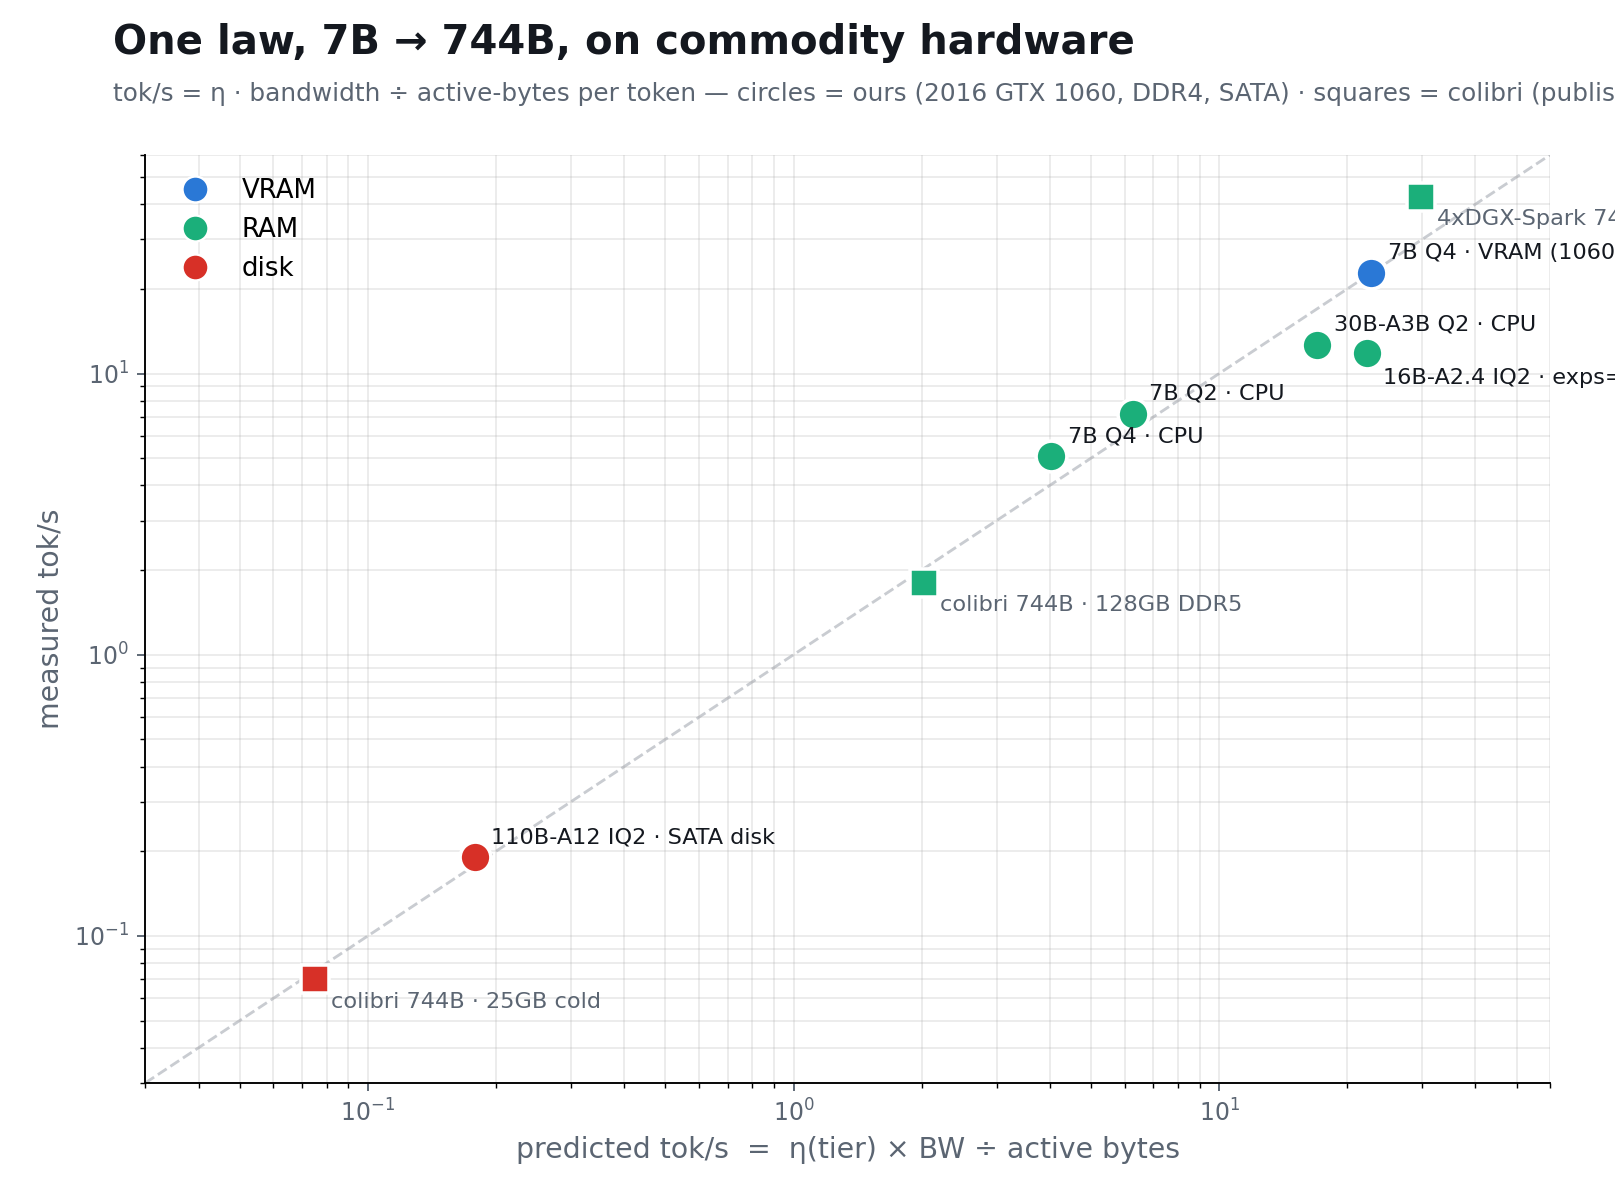
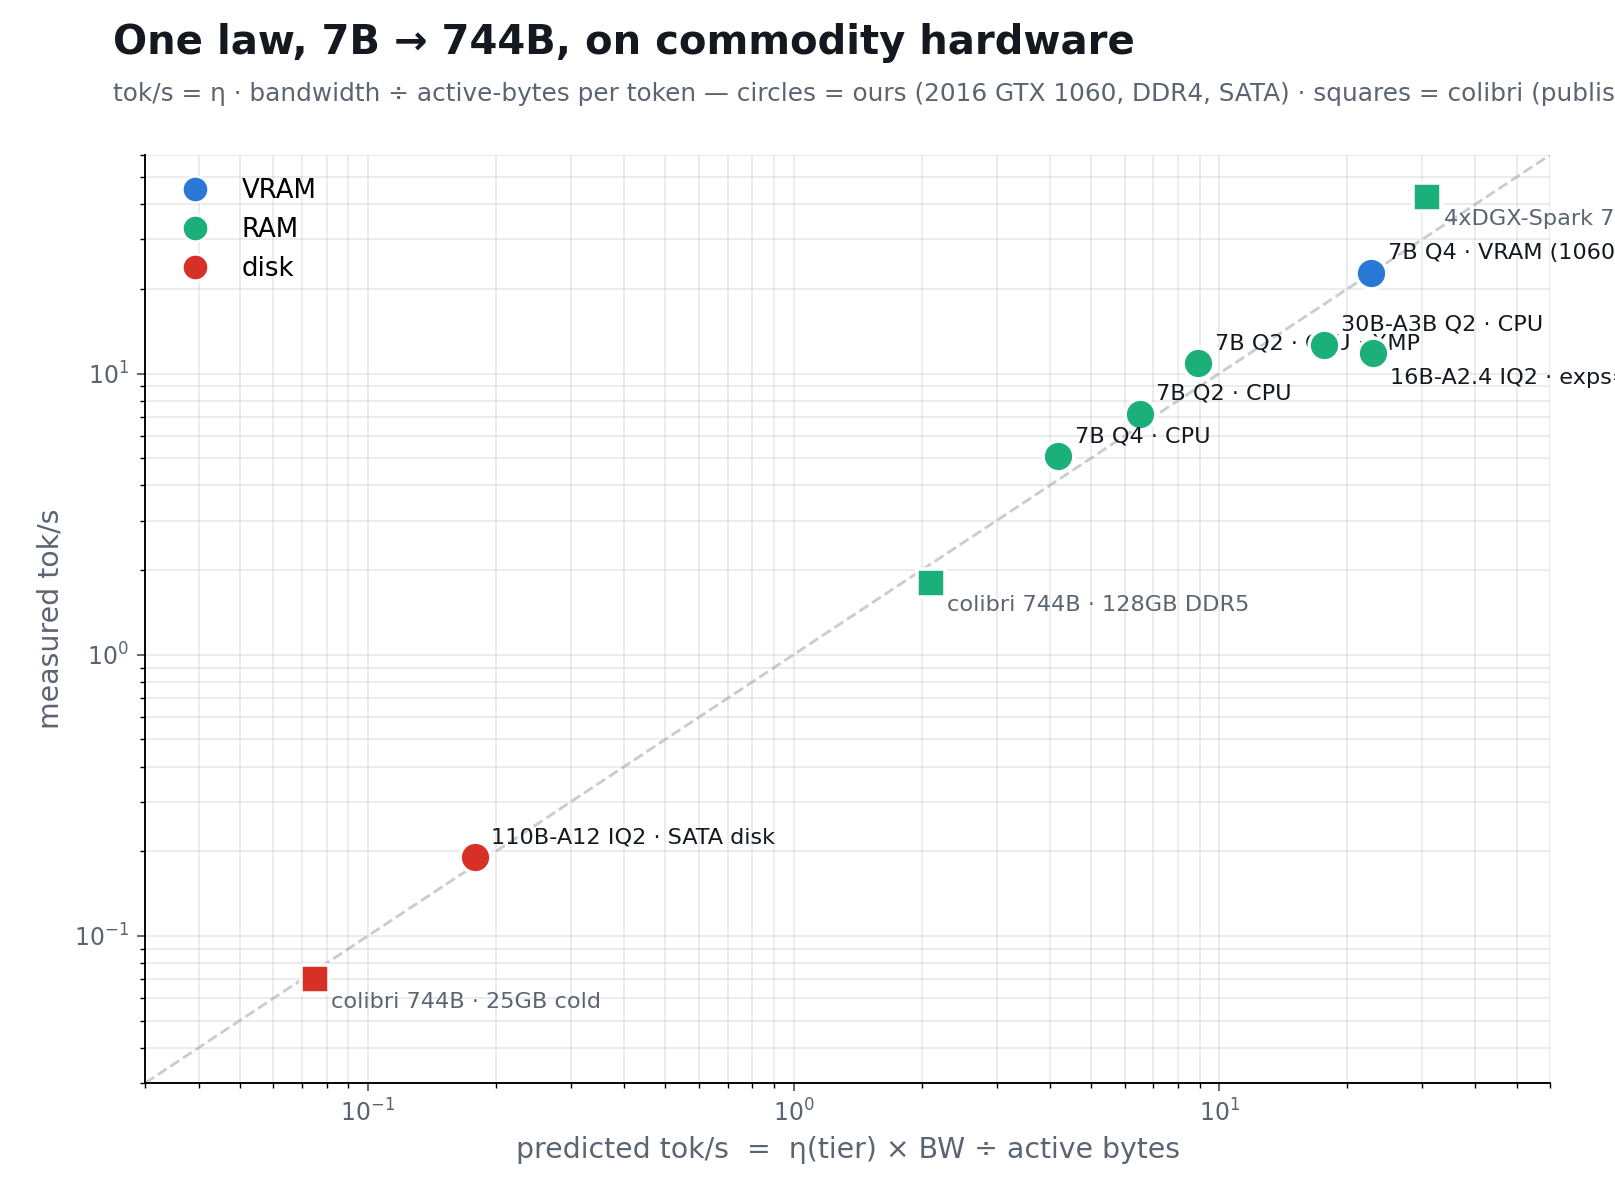
Charts: byte-identical experiment in parity section, 744B cost-vs-speed projection chart, XMP point on the law

diff --git a/weights/make_744b_chart.py b/weights/make_744b_chart.py
@@ -1,0 +1,61 @@
+"""Chart G: running the 744B at home — cost vs speed, measured vs predicted, and what placement buys free."""
+import os
+import matplotlib
+matplotlib.use("Agg")
+import matplotlib.pyplot as plt
+
+INK, SUB, LGREY, TEAL, RED = "#14181f", "#5b6572", "#c9ccd1", "#1d9e70", "#d73027"
+DATA = os.path.join(os.path.dirname(os.path.abspath(__file__)), "data")
+plt.rcParams.update({"font.family": "DejaVu Sans"})
+
+# (cost $, tok/s, label, measured?, dx, dy)
+PTS = [
+    (60,    0.07, "my 2016 desktop\n(2-bit, SATA stream)", False, 0, 14),
+    (240,   0.5,  "+ NVMe", False, 0, 14),
+    (1500,  1.8,  "128 GB DDR5\ncolibri int4 (measured)", True, -10, -34),
+    (1500,  3.5,  "same box\n+ my 2-bit recipe", False, 12, 4),
+    (2500,  9.0,  "used 200 GB/s\nworkstation", False, -8, 12),
+    (6000,  28,   "2× ASUS GX10\n(744B fits: 2-bit only)", False, -14, 12),
+    (10000, 45,   "Mac Studio 512 GB", False, -34, 12),
+    (16000, 42.5, "4× DGX Spark\nW4 (measured)", True, 10, -30),
+    (16000, 61,   "4× Spark\n+ my recipe", False, 12, 4),
+]
+fig, ax = plt.subplots(figsize=(12, 6.75), dpi=170)
+fig.patch.set_facecolor("white"); ax.set_facecolor("white")
+ax.set_xscale("log"); ax.set_yscale("log")
+ax.set_xlim(40, 60000); ax.set_ylim(0.04, 150)
+
+# the placement dividend: vertical arrows at fixed cost
+for x, y0, y1 in [(1500, 1.8, 3.5), (16000, 42.5, 61)]:
+    ax.annotate("", xy=(x, y1 * 0.82), xytext=(x, y0 * 1.2),
+                arrowprops=dict(arrowstyle="-|>", color=TEAL, lw=2.2))
+ax.text(1500 * 1.25, 2.45, "same hardware,\nplacement only", fontsize=9.5, color=TEAL, style="italic")
+ax.text(16000 * 1.25, 50, "×1.4–1.6 free", fontsize=9.5, color=TEAL, style="italic")
+
+for c, t, lab, meas, dx, dy in PTS:
+    if meas:
+        ax.scatter([c], [t], s=200, color=INK, marker="s", zorder=3, edgecolor="white", lw=1.5)
+    else:
+        ax.scatter([c], [t], s=180, facecolor="white", edgecolor=TEAL, lw=2.4, zorder=3)
+    ax.annotate(lab, (c, t), textcoords="offset points", xytext=(dx, dy), fontsize=9,
+                color=INK if meas else "#0f6e56", ha="center",
+                fontweight="bold" if meas else "normal")
+
+ax.set_xlabel("hardware cost (USD, log) — beyond a PC you already own", fontsize=12, color=SUB)
+ax.set_ylabel("GLM-5.2 744B decode tok/s (log)", fontsize=12, color=SUB)
+for s in ("top", "right"):
+    ax.spines[s].set_visible(False)
+ax.tick_params(colors=SUB); ax.grid(alpha=0.22, which="both")
+ax.scatter([], [], s=140, color=INK, marker="s", label="measured (theirs)")
+ax.scatter([], [], s=120, facecolor="white", edgecolor=TEAL, lw=2, label="predicted by the law (pre-registered)")
+ax.legend(frameon=False, fontsize=10.5, loc="upper left")
+fig.text(0.055, 0.955, "Running a 744B at home: what money buys — and what placement buys free",
+         fontsize=18.5, fontweight="bold", color=INK)
+fig.text(0.055, 0.905, "Hollow points: falsifiable predictions, published first. Green arrows: the probed-2-bit recipe on the same hardware.",
+         fontsize=11.5, color=SUB)
+fig.text(0.055, 0.03, "tok/s = η(tier) × bandwidth ÷ active-bytes · error ±25–40% at this range · quality: probe the fragile band first",
+         fontsize=10, color=SUB)
+fig.text(0.945, 0.03, "@federico_sciuca", fontsize=11, color=LGREY, ha="right", fontweight="bold")
+fig.subplots_adjust(left=0.07, right=0.965, top=0.86, bottom=0.15)
+fig.savefig(os.path.join(DATA, "x_chart_G_744b.png"), facecolor="white")
+print("saved x_chart_G_744b.png")

diff --git a/weights/scaling_law.py b/weights/scaling_law.py
@@ -16,6 +16,7 @@ BLUE, TEAL, RED, AMBER = "#2a78d6", "#1baf7a", "#d73027", "#eda100"
 PTS = [
     ("7B Q4 · VRAM (1060)",        "VRAM", 192,  4.68,  22.77, True),
     ("7B Q2 · CPU",                "RAM",  35,   3.01,  7.18,  True),
+    ("7B Q2 · CPU · XMP",      "RAM",  48,   3.01,  10.88, True),
     ("7B Q4 · CPU",                "RAM",  35,   4.68,  5.08,  True),
     ("30B-A3B Q2 · CPU",           "RAM",  35,   1.11,  12.62, True),
     ("16B-A2.4 IQ2 · exps=CPU",    "RAM",  35,   0.85,  11.81, True),

diff --git a/README.md b/README.md
@@ -53,6 +53,8 @@ Full statements, each with its establishing measurement and a falsifiable predic
 <p align="center"><img src="weights/data/x_chart_E_scalinglaw.png" width="700" alt="One scaling law, 7B to 744B, predicted vs measured, including colibri's published tiers"></p>
 <p align="center"><img src="weights/data/x_chart_F_tradeoff.png" width="700" alt="Speed vs memory trade-off with the RAM capacity cliff — fewer bits mean less memory and more speed until the model stops fitting"></p>
 
+<p align="center"><img src="weights/data/x_chart_D_placement.png" width="700" alt="Byte-identical GGUF files, 2.25 perplexity apart — placement is worth twice the byte budget"></p>
+
 ## The machine — and every speed it ran at
 
 All of this happened on one desktop I already owned. Exact specs, because reproducibility starts with honesty about hardware:
@@ -168,6 +170,8 @@ The question colibri made everyone ask: *what would GLM-5.2 (744B-A32B) cost to 
 | 4× DGX Spark + **this work's recipe** (probed 2-bit experts, 4-bit attention) | active bytes 20.7 → 12.9 GB/token (×1.6) | **~55–67 predicted** — or the same 42.5-class speed on **2 Sparks (~half the cost)**, or several-fold more KV/context |
 
 Three honest caveats: (1) 2-bit quality on a 744B is *itself* a probe-first question — the fragility atlas says find the fragile band before trusting any recipe, and MoEs of this class have absorbed 2-bit at ~1.10× so far; (2) the streaming rows assume naive LRU — colibri-style lookahead prefetch (91–99% predictable, measured) is exactly what closes the gap between my naive-streaming numbers and its engine's; (3) the biggest model I have *measured* is 110B — everything above it is the law extrapolating, which is precisely what the pre-registration culture here is for: these numbers are on the record before anyone runs them.
+
+<p align="center"><img src="weights/data/x_chart_G_744b.png" width="720" alt="Running a 744B at home: cost versus speed, measured points versus pre-registered predictions, with the placement dividend shown at fixed cost"></p>
 
 ## Honest limitations
 